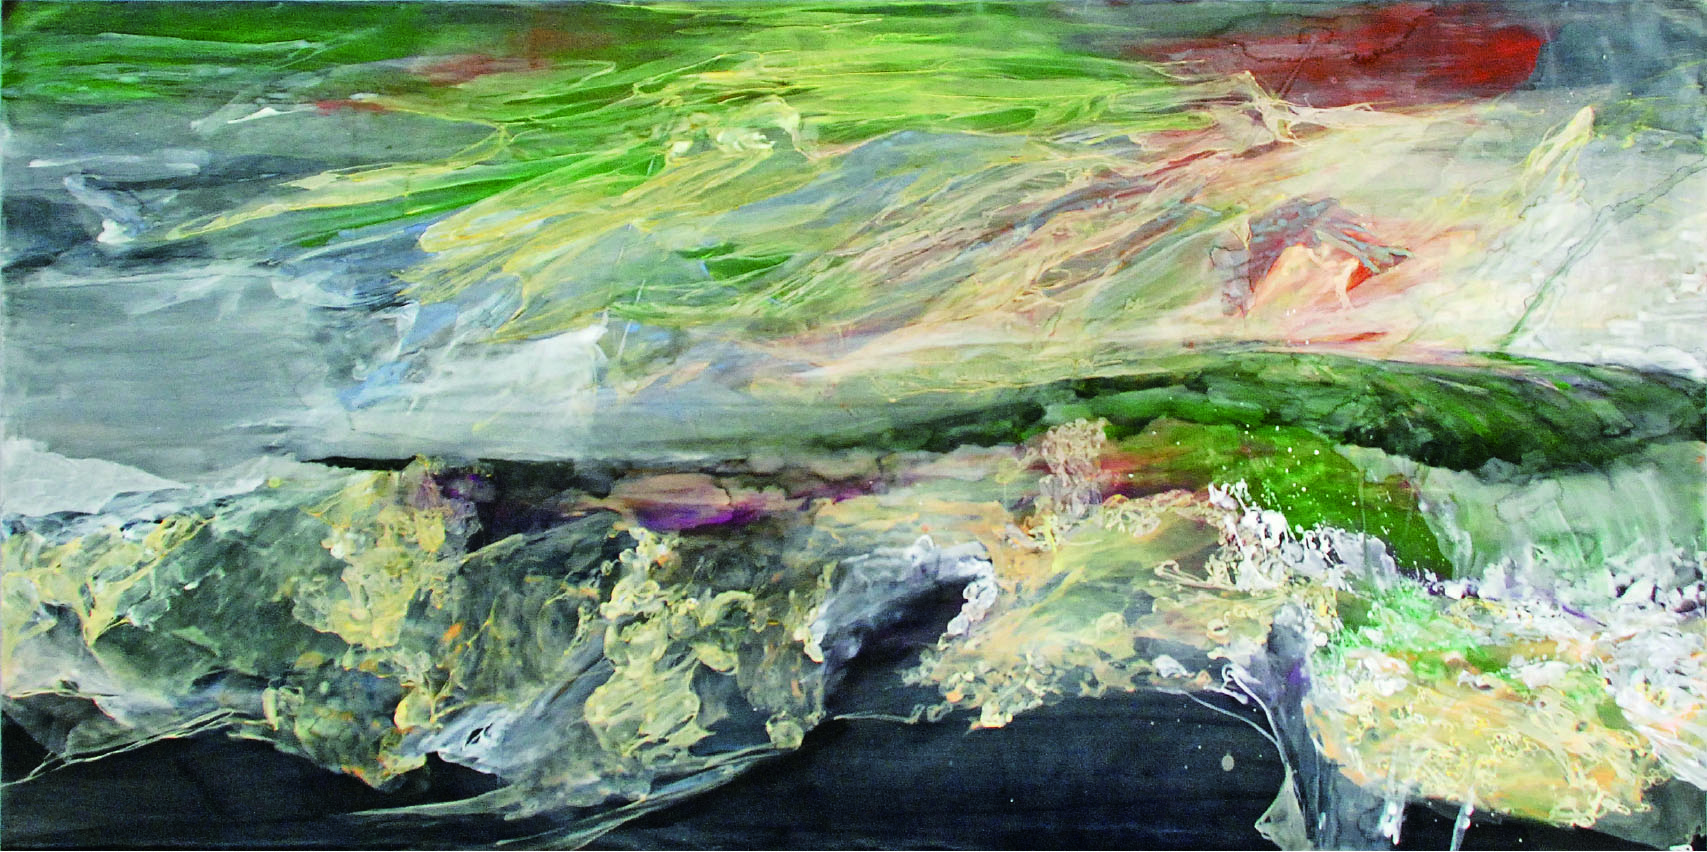
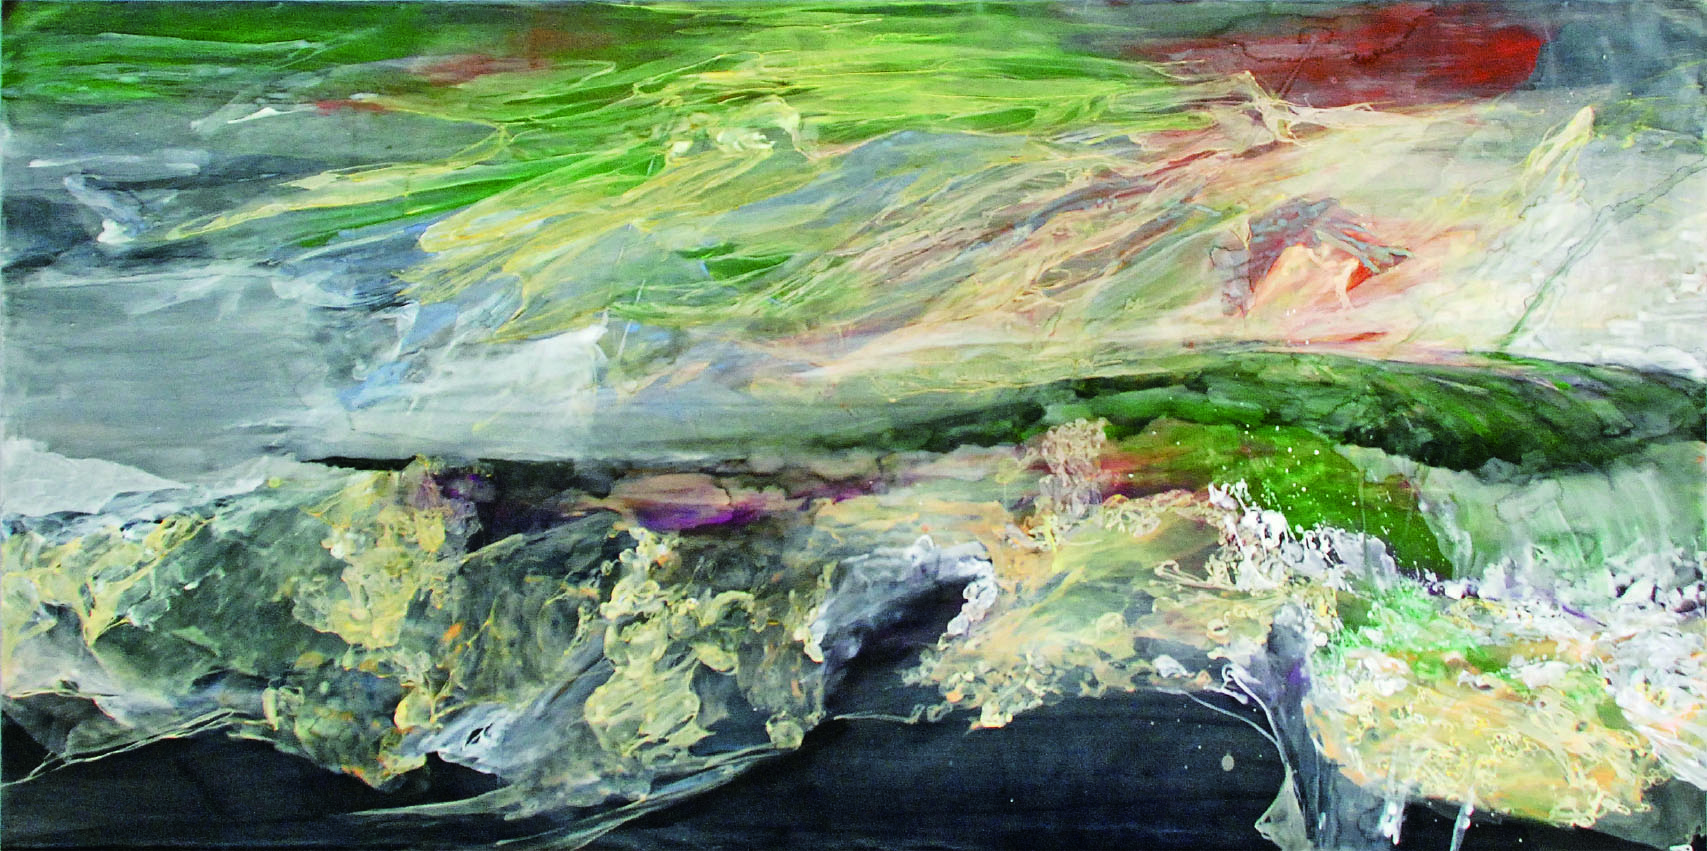
update images and installation view

diff --git a/paintings/tessellation.html b/paintings/tessellation.html
@@ -64,8 +64,8 @@
                         <img src="https://h-nishihata.github.io/images/paintings/tessellation_00.jpg"/ width="100%">
                         <div class="description">
                             <p>
-                            Installation view at Tama Art University, Tokyo<br>
-                            「現代日本画の系譜 - タマビDNA」での展示風景
+                            Installation view at Tama Art University Hachioji Campus Art-Theque, Tokyo<br>
+                            多摩美術大学八王子キャンパスアートテーク (東京) での展示風景
                             </p>
                         </div>
                         <div class="description">

diff --git a/paintings/dizzy_world.html b/paintings/dizzy_world.html
@@ -46,7 +46,7 @@
 										<div class="description">
 											<p>
 											Installation view at The National Art Center, Tokyo<br>
-											国立新美術館（東京）での展示風景
+											国立新美術館 (東京) での展示風景
 											</p>
 										</div>
 	              </td>

diff --git a/others/geiger_harp.html b/others/geiger_harp.html
@@ -56,7 +56,7 @@
 							<div class="description">
 								<p>
 								Installation view at Art Labo Hashimoto, Kawnagawa<br>
-								アートラボはしもと（神奈川）での展示風景
+								アートラボはしもと (神奈川) での展示風景
 								</p>
 							</div>
 						</td>

diff --git a/paintings/homing_instinct.html b/paintings/homing_instinct.html
@@ -54,7 +54,7 @@
 							<div class="description">
 								<p>
 									Installation view at MELSA Ginza-2, Tokyo<br>
-									メルサ Ginza-2（東京）での展示風景
+									メルサ Ginza-2 (東京) での展示風景
 								</p>
 							</div>
 						</td>
